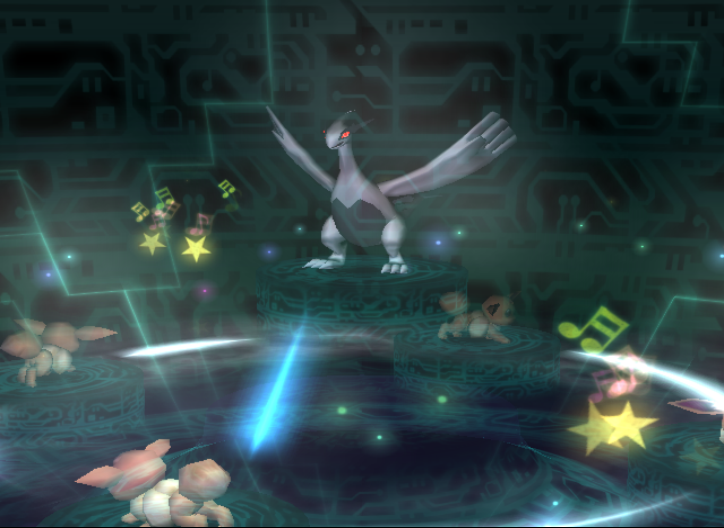
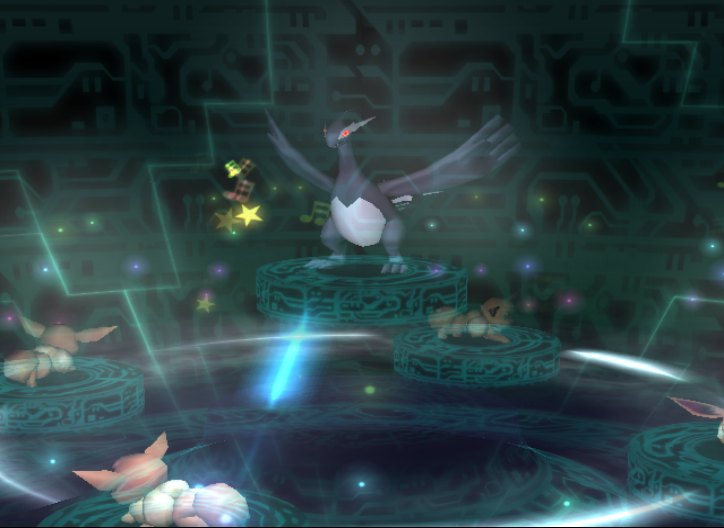
docs: refresh Shadow Lugia showcases and current settings

diff --git a/scripts/release_media.py b/scripts/release_media.py
@@ -14,7 +14,7 @@ DOCUMENTATION_IMAGES = frozenset(("home.png", "colosseum-settings.png",
                                  "xd-lighthouse-dancers.png", "colosseum-simple.png", "xd-starter-preview.png",
                                  "xd-shadow-pokemon.png", "colosseum-gifts.png", "xd-gifts.png", "xd-pokemon-sheet.png",
                                  "colosseum-shadow-lugia-event.gif", "colosseum-shiny-settings.png",
-                                 "xd-purified-shadow-lugia.png", "colosseum-dna-keypad.png",
+                                 "xd-purified-shadow-lugia.png", "xd-shiny-shadow-lugia.png", "colosseum-dna-keypad.png",
                                  "colosseum-dna-keypad-purified.png"))
 
 

diff --git a/README.md b/README.md
@@ -190,7 +190,11 @@ ordinary models. [Shiny and form rules](docs/SHINIES.md)
 
 | Shiny settings | Purified Lugia with its Shadow appearance kept |
 | --- | --- |
-| ![English shiny settings with a 5% rate and the optional Shadow appearance setting](docs/images/colosseum-shiny-settings.png) | ![White-and-black Lugia completing purification in XD](docs/images/xd-purified-shadow-lugia.png) |
+| ![English shiny settings with a 5% rate and the optional Shadow appearance setting](docs/images/colosseum-shiny-settings.png) | ![Non-shiny Lugia keeping its dark Shadow appearance after purification in XD](docs/images/xd-purified-shadow-lugia.png) |
+
+**Custom shiny Shadow Lugia (XD001) model**
+
+![The custom white-and-black Shadow Lugia model retained after purification in XD](docs/images/xd-shiny-shadow-lugia.png)
 
 ### A new postgame battle in Colosseum
 
@@ -199,7 +203,7 @@ Cipher has one last plan for the Relic Stone. After you snag and purify all
 warning from Eagun. Return to Agate to face Nascour and **level-70 Shadow
 Lugia** in a new scene with your partner and Eagun.
 
-![Nascour threatens the Relic Stone with a shiny Shadow Lugia](docs/images/colosseum-shadow-lugia-event.gif)
+![Nascour threatens the Relic Stone with a non-shiny Shadow Lugia](docs/images/colosseum-shadow-lugia-event.gif)
 
 Both randomizing presets enable this quest with its intended six-Pokémon team
 at levels 65-70 and Shadow Lugia as the final target. Under **Advanced → Starters
